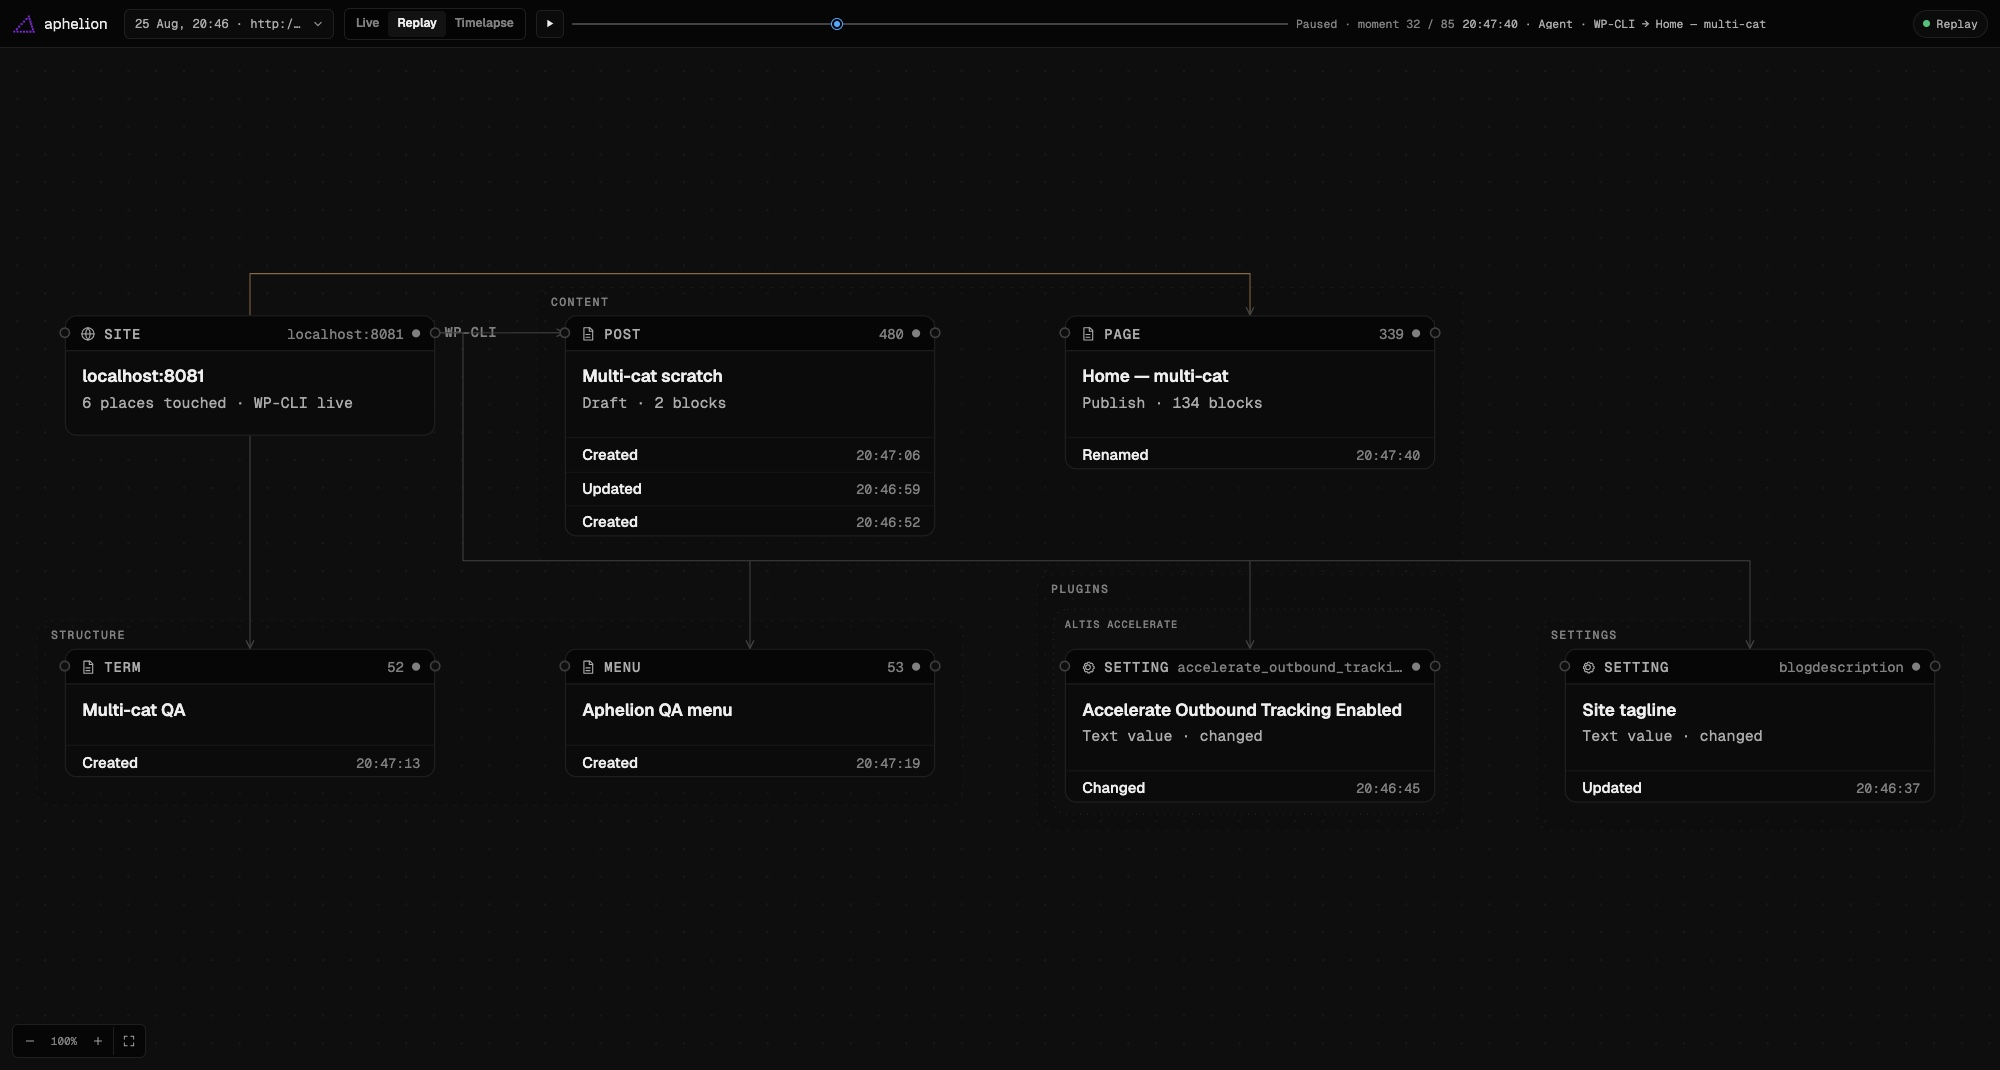
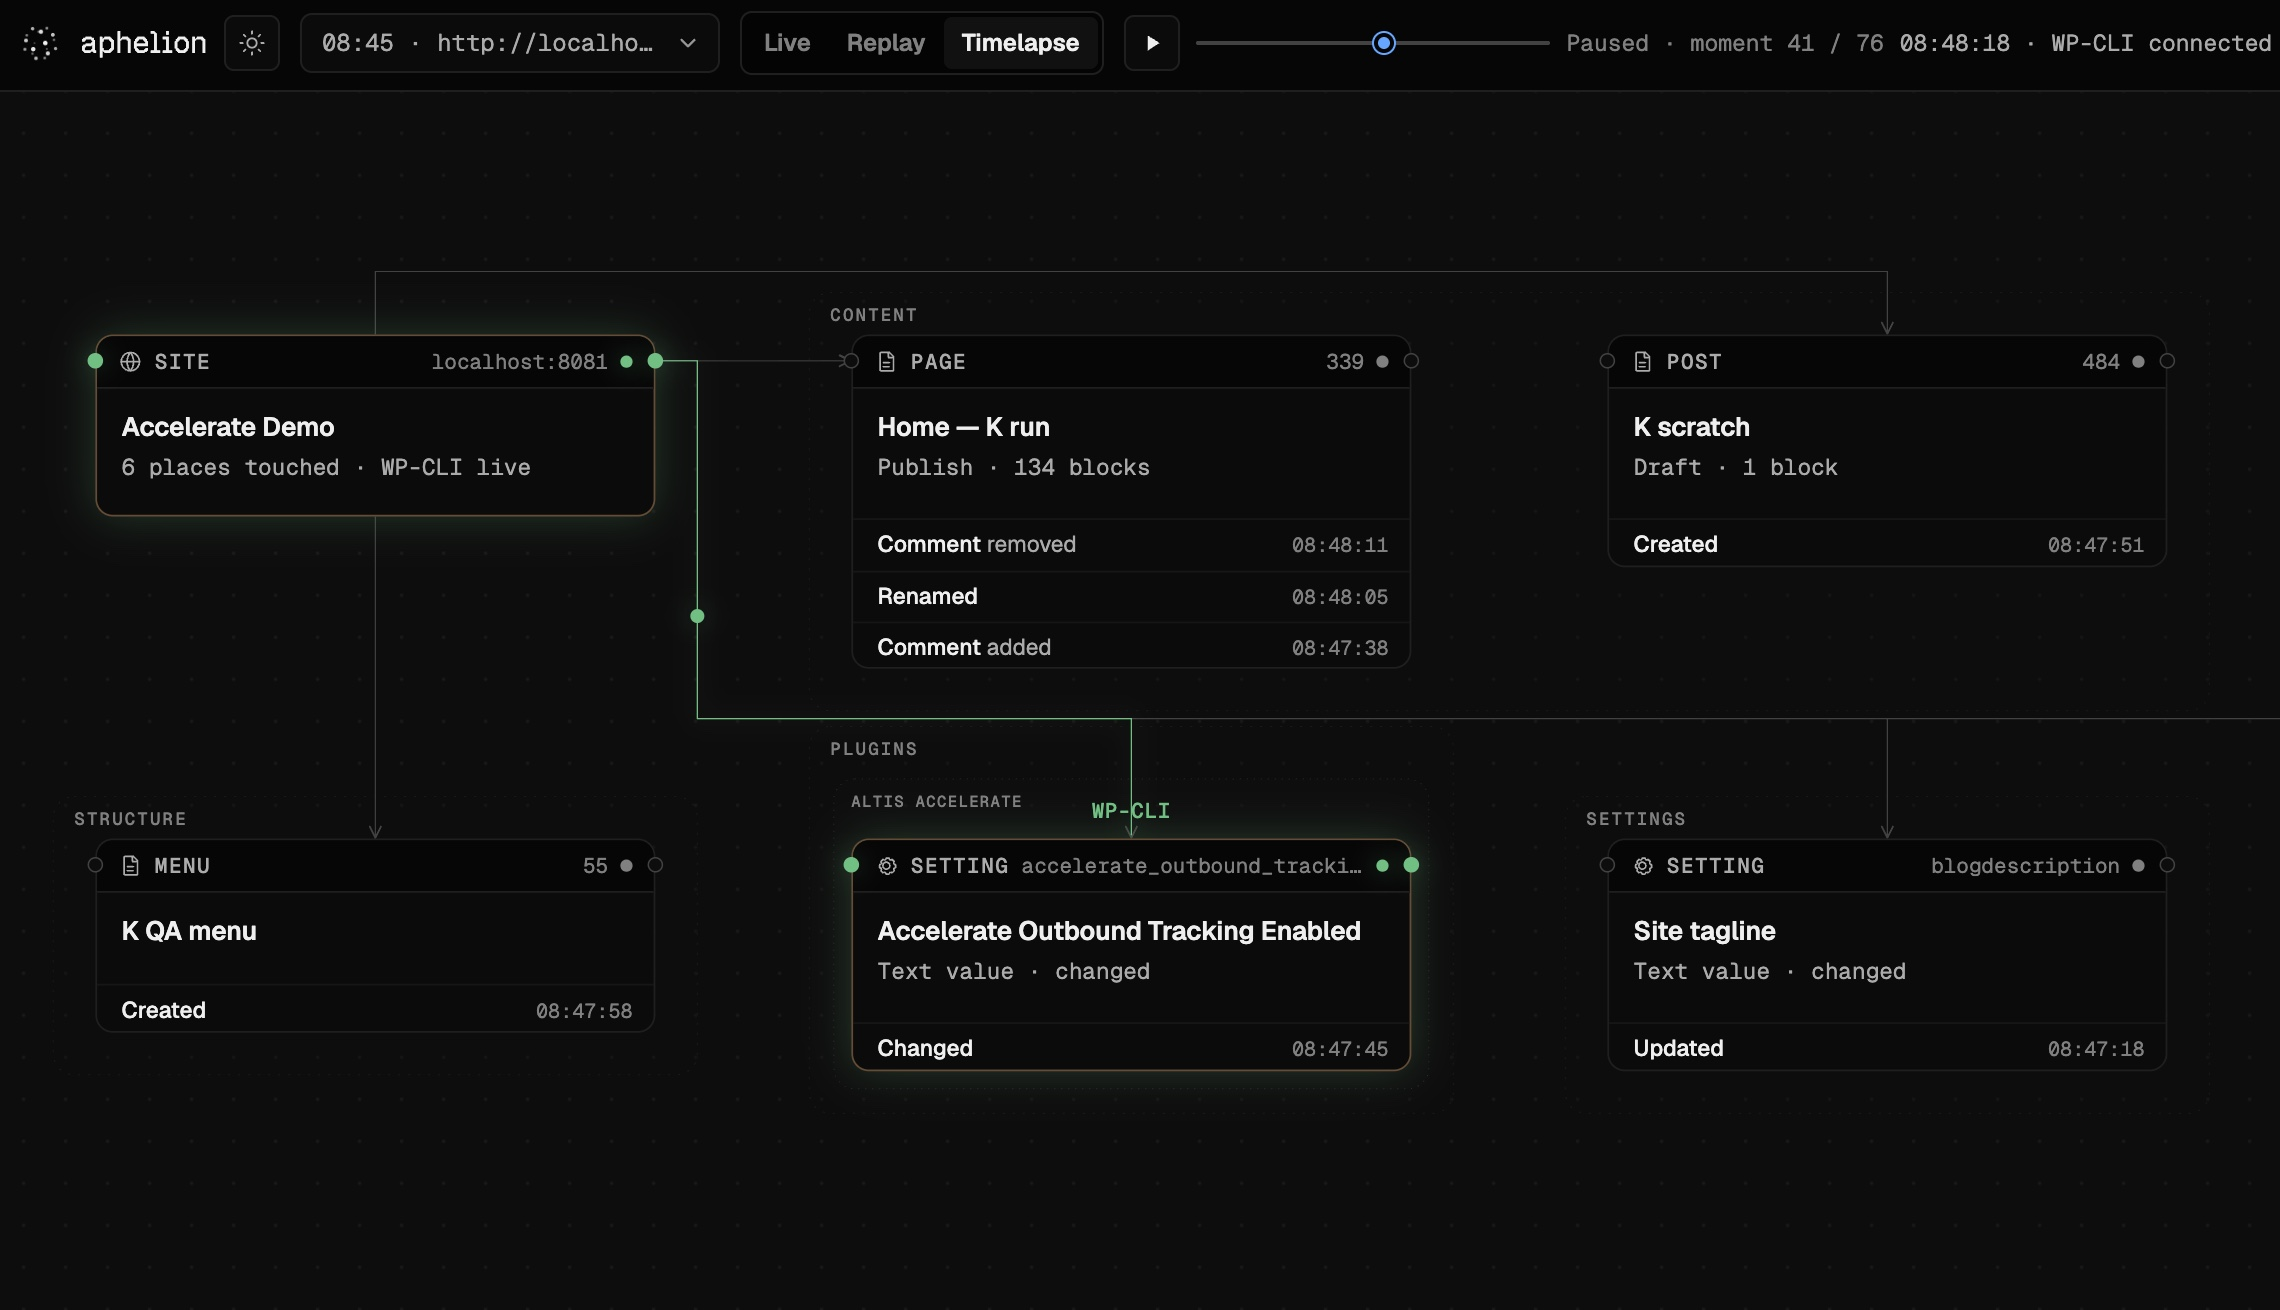
README hero: Noel's timelapse frame (clipboard original, 2280x1310)
Claude-Session: https://claude.ai/code/session_015TeFZdAbbdAUenkxakeGt8

diff --git a/README.md b/README.md
@@ -8,7 +8,7 @@
 [![license](https://img.shields.io/github/license/humanmade/aphelion.svg)](./LICENSE)
 [![Socket Badge](https://socket.dev/api/badge/npm/package/aphelion)](https://socket.dev/npm/package/aphelion)
 
-![A recorded agent session replayed on the Aphelion board: the site, its content, structure, plugin, and settings territories, with a page rename landing live](assets/aphelion-board.jpg)
+![A recorded agent session in the Aphelion timelapse: the site and its content, structure, plugin, and settings territories, with a WP-CLI change landing live on a plugin setting](assets/aphelion-board.jpg)
 
 An agent says it updated a page. The filesystem shows a diff. WordPress reports a save.
 Aphelion records those fragments as one append-only local trail and renders the same record
